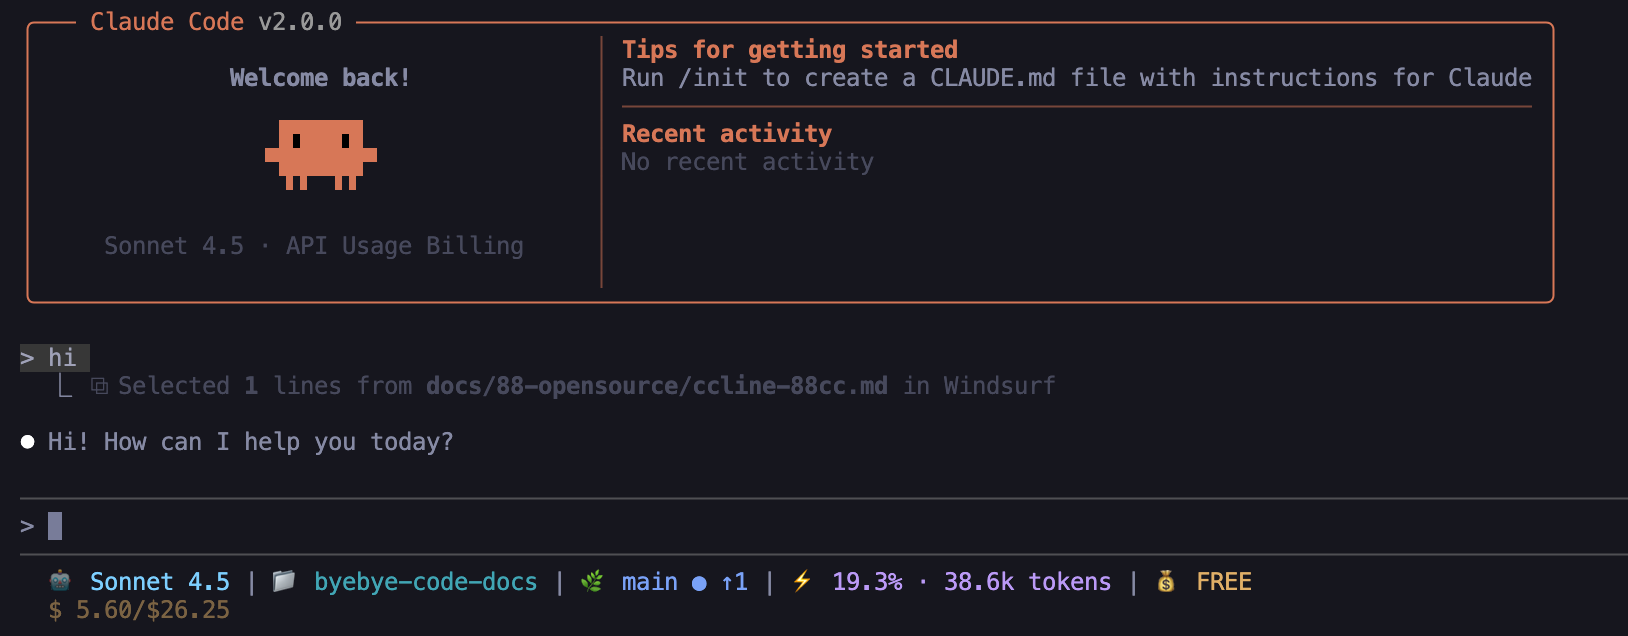
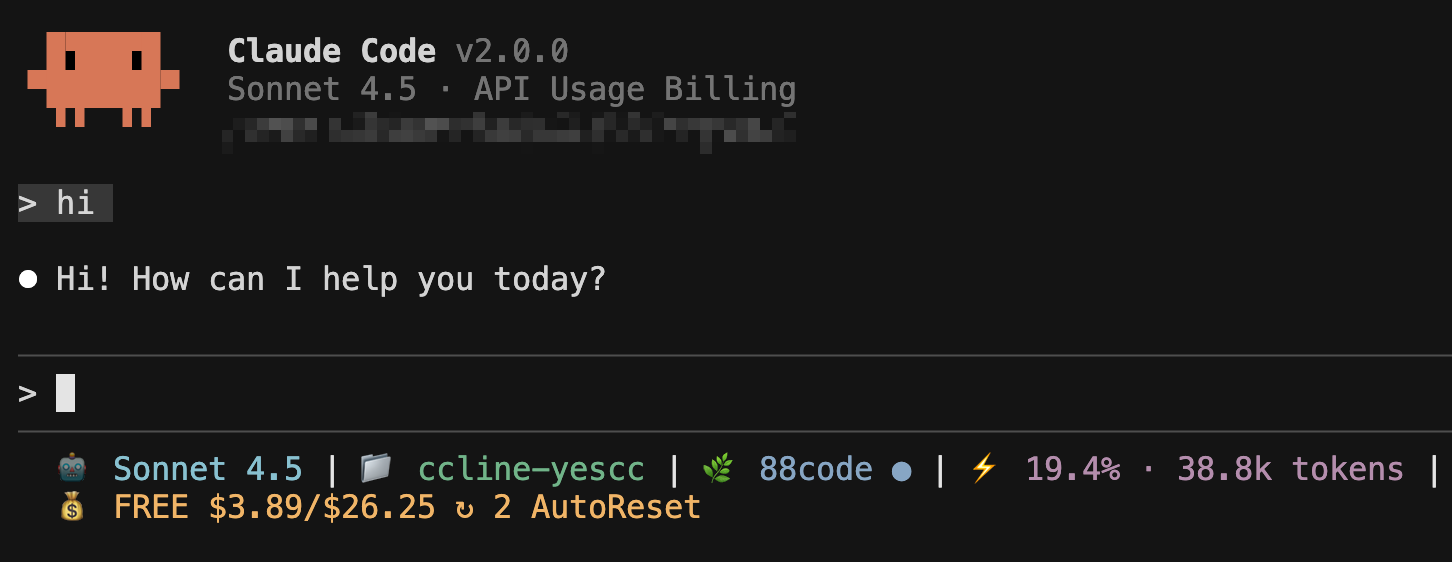
chore: update version to 1.0.10 and enhance quota segment with subscription info retrieval

diff --git a/src/core/segments/quota.rs b/src/core/segments/quota.rs
@@ -17,6 +17,18 @@ struct C88ApiResponse {
     current_credits: f64,
     #[serde(rename = "subscriptionName")]
     subscription_name: Option<String>,
+    #[serde(rename = "subscriptionId")]
+    subscription_id: Option<u32>,
+}
+
+// 订阅 API 响应结构
+#[derive(Debug, Deserialize)]
+struct SubscriptionResponse {
+    id: u32,
+    #[serde(rename = "resetTimes")]
+    reset_times: u32,
+    #[serde(rename = "autoResetWhenZero")]
+    auto_reset_when_zero: bool,
 }
 
 // 端点配置
@@ -210,6 +222,42 @@ impl QuotaSegment {
     fn calculate_used(&self, response: &C88ApiResponse) -> f64 {
         response.credit_limit - response.current_credits
     }
+
+    fn fetch_subscription_info(&self, api_key: &str, subscription_id: u32) -> Option<SubscriptionResponse> {
+        let url = "https://www.88code.org/api/subscription";
+        let bearer_token = format!("Bearer {}", api_key);
+
+        let result = ureq::post(url)
+            .set("accept", "*/*")
+            .set("content-type", "application/json")
+            .set("Authorization", &bearer_token)
+            .timeout(Duration::from_secs(5))
+            .call();
+
+        match result {
+            Ok(response) if response.status() == 200 => {
+                if let Ok(subscriptions) = response.into_json::<Vec<SubscriptionResponse>>() {
+                    // 查找匹配的订阅ID
+                    subscriptions.into_iter().find(|sub| sub.id == subscription_id)
+                } else {
+                    None
+                }
+            }
+            _ => None,
+        }
+    }
+
+    fn format_reset_info(&self, reset_times: u32, auto_reset: bool) -> String {
+        if reset_times > 0 {
+            if auto_reset {
+                format!("↻ {} AutoReset", reset_times)
+            } else {
+                format!("↻ {}", reset_times)
+            }
+        } else {
+            String::new()
+        }
+    }
 }
 
 impl Segment for QuotaSegment {
@@ -231,6 +279,17 @@ impl Segment for QuotaSegment {
                 let total = response.credit_limit;
                 let quota_display = self.format_quota(response.subscription_name.as_deref(), used, total);
 
+                // 获取重置次数信息
+                let reset_info = if let Some(sub_id) = response.subscription_id {
+                    if let Some(sub_info) = self.fetch_subscription_info(&api_key, sub_id) {
+                        self.format_reset_info(sub_info.reset_times, sub_info.auto_reset_when_zero)
+                    } else {
+                        String::new()
+                    }
+                } else {
+                    String::new()
+                };
+
                 let mut metadata = HashMap::new();
                 metadata.insert("used".to_string(), used.to_string());
                 metadata.insert("total".to_string(), total.to_string());
@@ -242,7 +301,7 @@ impl Segment for QuotaSegment {
 
                 Some(SegmentData {
                     primary: quota_display,
-                    secondary: String::new(),
+                    secondary: reset_info,
                     metadata,
                 })
             } else {
